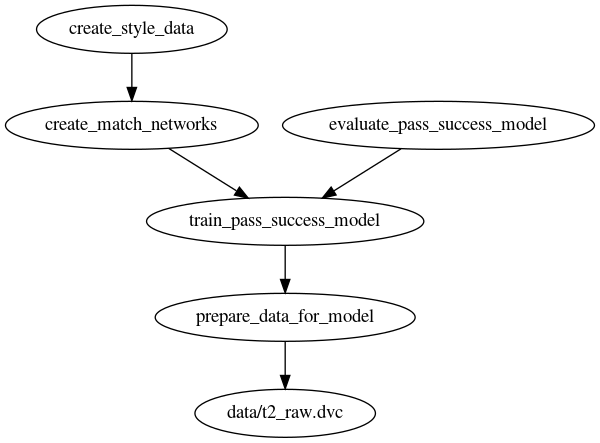
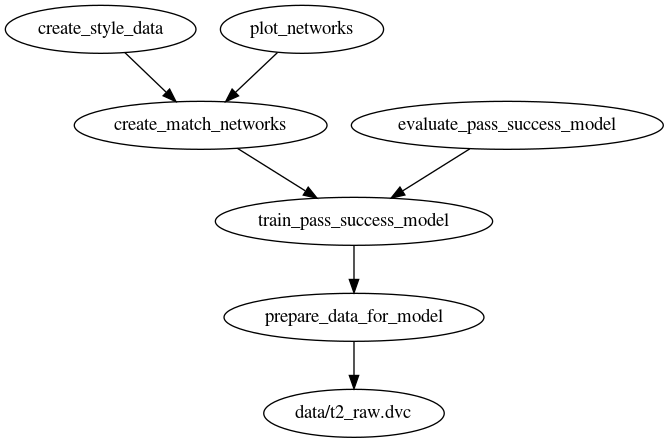
update dag

diff --git a/src/network/present_network.py b/src/network/present_network.py
@@ -38,6 +38,8 @@ def get_pos_dict(nw_df, bg_img):
             / df[["total"]].values
             / 100
             * bg_img.shape[:2][::-1]
+            * np.array([1, -1])
+            + np.array([0, bg_img.shape[0]])
         )
         .T.to_dict("list")
     )
@@ -88,7 +90,7 @@ def plot_top_networks():
     bg_img = plt.imread("football-field.jpg")
     fig_h = 9
     plt.rcParams["figure.figsize"] = (fig_h * bg_img.shape[1] / bg_img.shape[0], fig_h)
-    plt.rcParams['axes.titlesize'] = 16
+    plt.rcParams["axes.titlesize"] = 16
 
     match_df = T2Data.get_simplified_wh_matches()
     network_df = load_entire_network()

diff --git a/src/final_report.py b/src/final_report.py
@@ -1,7 +1,7 @@
 from .dvc_util import PipelineElement
 from .pass_success_model.evaluate_model import eval_pass_model_pe
+from .network.present_network import plot_network_pe
 
-anal_networks_pe = ...
 anal_styles_pe = ...
 
 
@@ -12,5 +12,5 @@ def export_report():
 report_pe = PipelineElement(
     name="final_report",
     runner=export_report,
-    dependency_list=[eval_pass_model_pe, anal_networks_pe, anal_styles_pe],
+    dependency_list=[eval_pass_model_pe, plot_network_pe, anal_styles_pe],
 )
